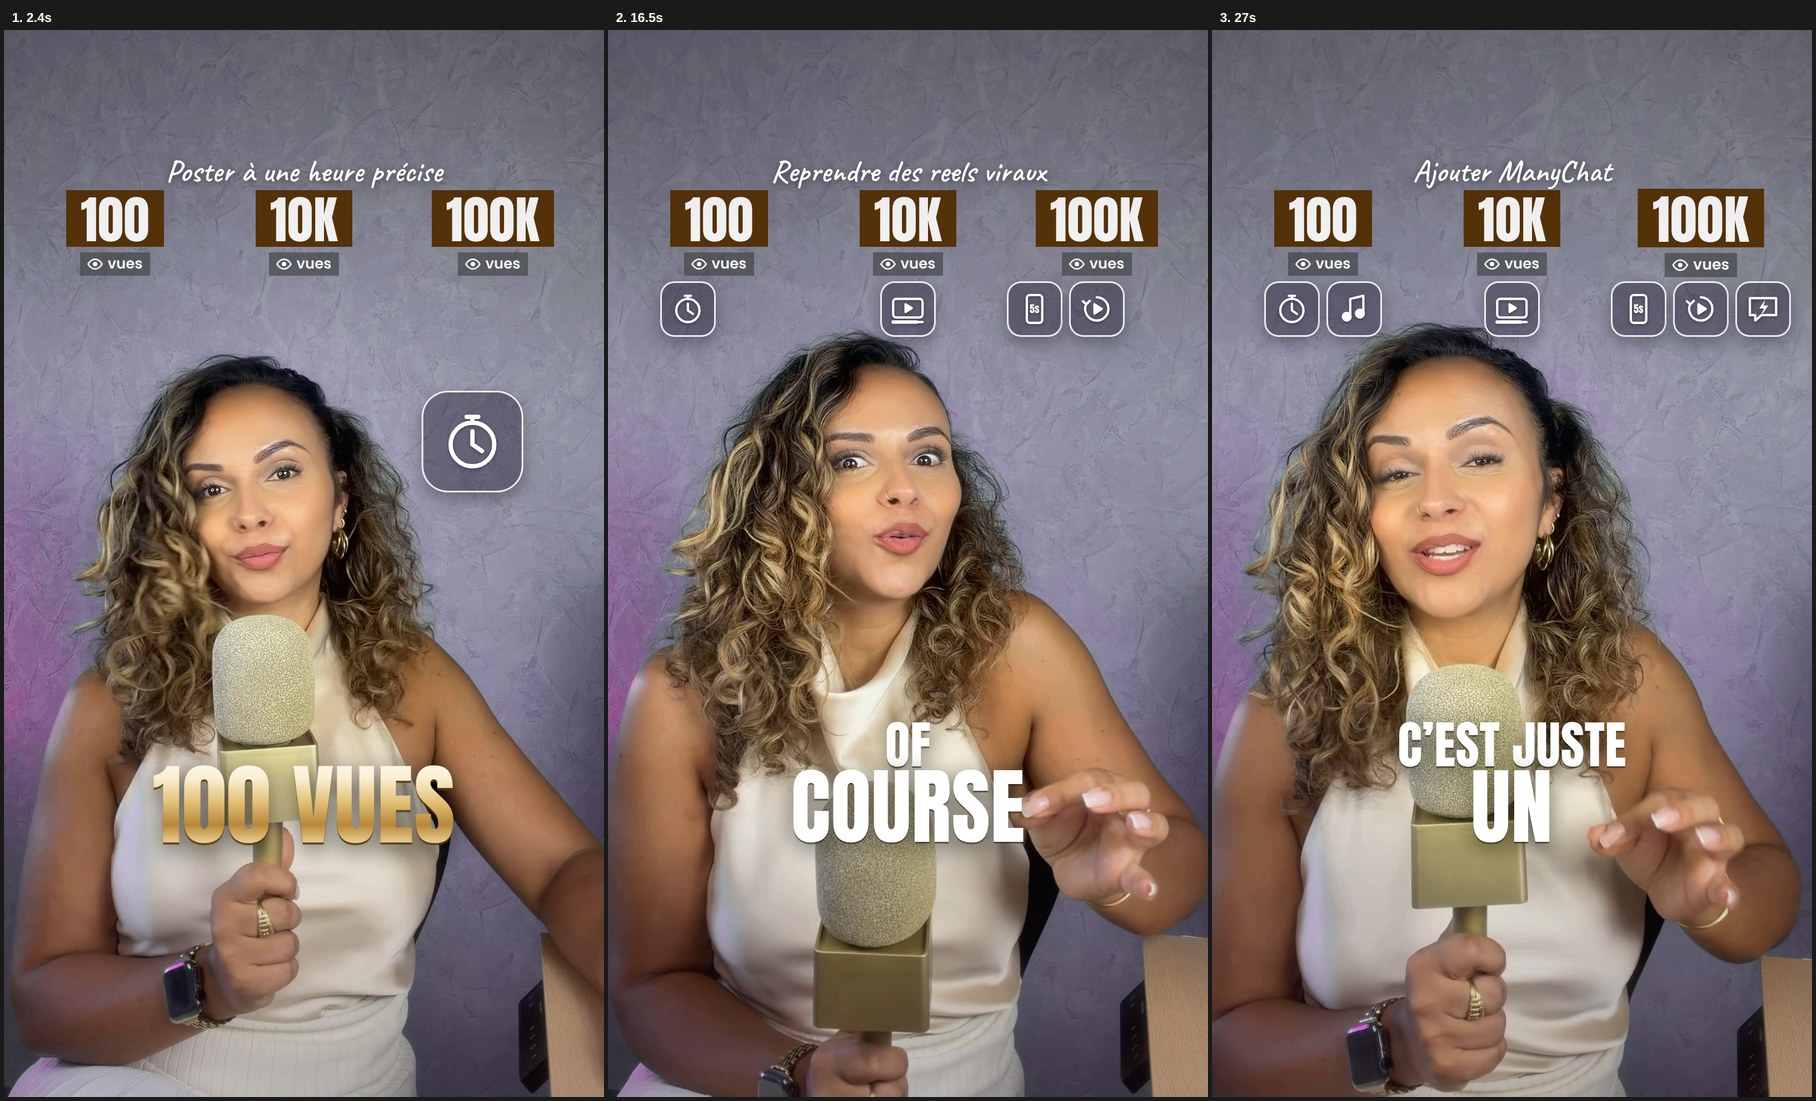
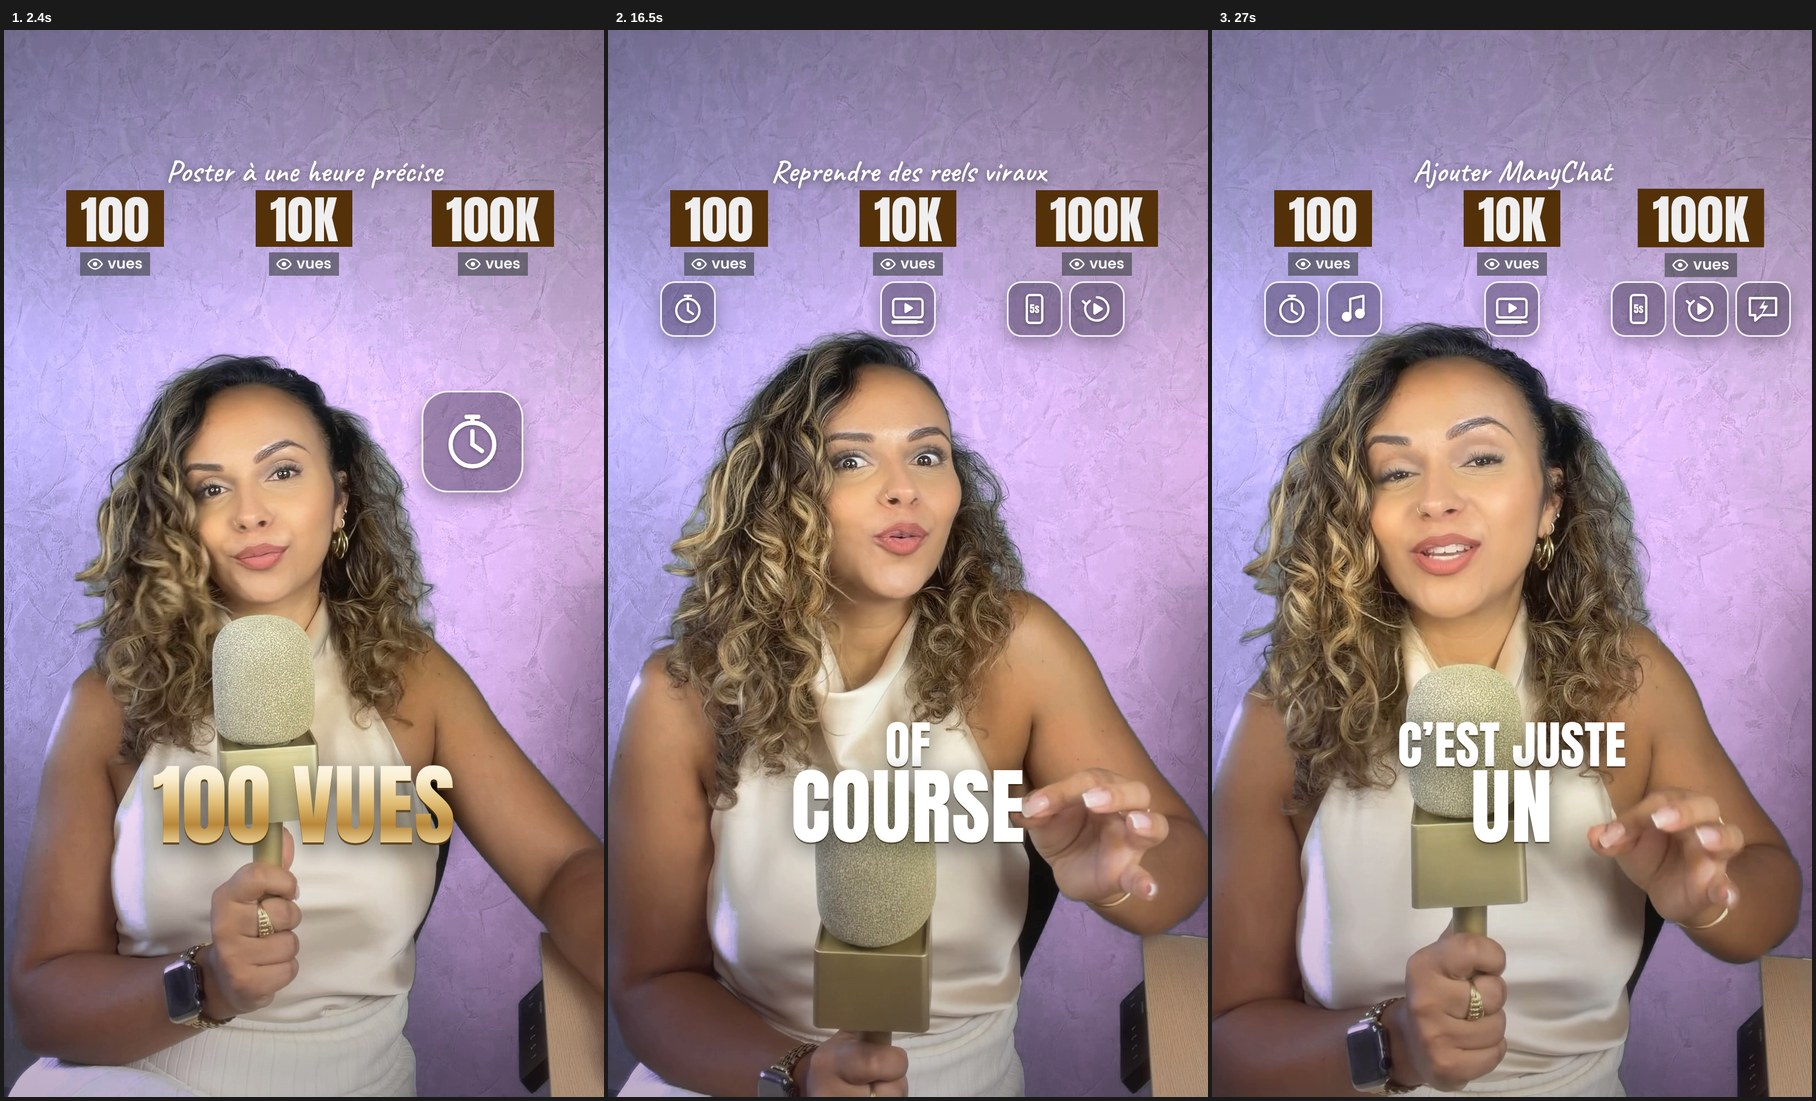
vues-classement test: lilac wall matched to her reel (colour-keyed, skin untouched)
Claude-Session: https://claude.ai/code/session_019pwbzbkUo8jfmpgWNgx2Yp

diff --git a/reels/vues-classement/index.html b/reels/vues-classement/index.html
@@ -75,7 +75,7 @@ html,body{width:1080px;height:1920px;overflow:hidden;background:#000}
 <audio id="sfx32" src="assets/sfx/click.mp3" data-start="31.350" data-duration="0.360" data-track-index="12" data-volume="0.375"></audio>
 <audio id="sfx33" src="assets/sfx/sparkle.mp3" data-start="31.400" data-duration="1.800" data-track-index="13" data-volume="0.112"></audio>
 <audio id="sfx34" src="assets/sfx/pop.mp3" data-start="35.000" data-duration="0.720" data-track-index="10" data-volume="0.210"></audio>
-  <video id="bgv" class="full" src="assets/aroll_pink.mp4" muted playsinline data-start="0" data-media-start="0" data-duration="36.500" data-track-index="0"></video>
+  <video id="bgv" class="full" src="assets/aroll_lilac.mp4" muted playsinline data-start="0" data-media-start="0" data-duration="36.500" data-track-index="0"></video>
   <div id="vig"></div><div id="shade"></div>
 <div id="board">
 <div id="col0" class="col" style="left:40px;top:288px"><div class="box"><div class="num">100</div></div><div class="chip"><svg width="30" height="30" viewBox="0 0 24 24"><path d="M2 12s3.6-7 10-7 10 7 10 7-3.6 7-10 7S2 12 2 12z" fill="none" stroke="#fff" stroke-width="2.2"/><circle cx="12" cy="12" r="3.2" fill="#fff"/></svg><span>vues</span></div></div>

diff --git a/reels/vues-classement/lilac.py b/reels/vues-classement/lilac.py
@@ -1,0 +1,48 @@
+#!/usr/bin/env python3
+"""Lilac wall (Maé's "Ton rythme de publi" look) without touching her skin: the blue-grey wall is found by colour
+(blue above red), relit and re-tinted to her lilac (#B5A0DD, pinker on the right), everything warm stays as shot.
+
+PY lilac.py in.mp4 out.mp4          (PY lilac.py --frame in.png out.png for a test still)
+"""
+import subprocess
+import sys
+
+import numpy as np
+from PIL import Image
+
+W, H = 1080, 1920
+LIFT = 1.36                                    # wall luminance: ~125 in the raw grade -> ~170 like her reel
+LEFT = np.array([0.99, 0.94, 1.30], np.float32)  # lilac chroma (rgb / luma), bluish-lilac on the left ...
+RIGHT = np.array([1.12, 0.91, 1.17], np.float32)  # ... pinker on the right
+X = np.linspace(0, 1, W, dtype=np.float32)[None, :, None]
+TINT = LEFT * (1 - X) + RIGHT * X
+
+
+def grade(rgb):
+    f = rgb.astype(np.float32)
+    r, g, b = f[..., 0], f[..., 1], f[..., 2]
+    m = np.clip((b - r - 4) / 22, 0, 1)[..., None]           # wall = blue above red; skin / hair / cream top are warm
+    luma = (0.299 * r + 0.587 * g + 0.114 * b)[..., None]
+    wall = np.clip(luma * LIFT, 0, 245) * TINT
+    out = f * (1 - m) + wall * m
+    return np.clip(out, 0, 255).astype(np.uint8)
+
+
+if sys.argv[1] == '--frame':
+    Image.fromarray(grade(np.asarray(Image.open(sys.argv[2]).convert('RGB')))).save(sys.argv[3])
+    sys.exit()
+src, dst = sys.argv[1], sys.argv[2]
+dec = subprocess.Popen(['ffmpeg', '-loglevel', 'error', '-i', src, '-f', 'rawvideo', '-pix_fmt', 'rgb24', '-'], stdout=subprocess.PIPE)
+enc = subprocess.Popen(['ffmpeg', '-loglevel', 'error', '-y', '-f', 'rawvideo', '-pix_fmt', 'rgb24', '-s', f'{W}x{H}', '-r', '30', '-i', '-',
+                        '-i', src, '-map', '0:v', '-map', '1:a?', '-c:v', 'libx264', '-crf', '14', '-preset', 'medium', '-pix_fmt', 'yuv420p',
+                        '-c:a', 'copy', '-shortest', dst], stdin=subprocess.PIPE)
+n = 0
+while True:
+    buf = dec.stdout.read(W * H * 3)
+    if len(buf) < W * H * 3:
+        break
+    enc.stdin.write(grade(np.frombuffer(buf, np.uint8).reshape(H, W, 3)).tobytes())
+    n += 1
+enc.stdin.close()
+enc.wait()
+print(f'{dst}: {n} frames')

diff --git a/reels/vues-classement/build.py b/reels/vues-classement/build.py
@@ -255,7 +255,7 @@ def build():
 <div id="root" data-composition-id="main" data-start="0" data-duration="{DUR:.3f}" data-width="1080" data-height="1920">
   <audio id="bga" src="assets/aroll.mp4" data-start="0" data-media-start="0" data-duration="{DUR:.3f}" data-track-index="2" data-volume="1"></audio>
 {nl.join(audio())}
-  <video id="bgv" class="full" src="assets/aroll_pink.mp4" muted playsinline data-start="0" data-media-start="0" data-duration="{DUR:.3f}" data-track-index="0"></video>
+  <video id="bgv" class="full" src="assets/aroll_lilac.mp4" muted playsinline data-start="0" data-media-start="0" data-duration="{DUR:.3f}" data-track-index="0"></video>
   <div id="vig"></div><div id="shade"></div>
 {nl.join(b_html)}
 {nl.join(t_html)}
